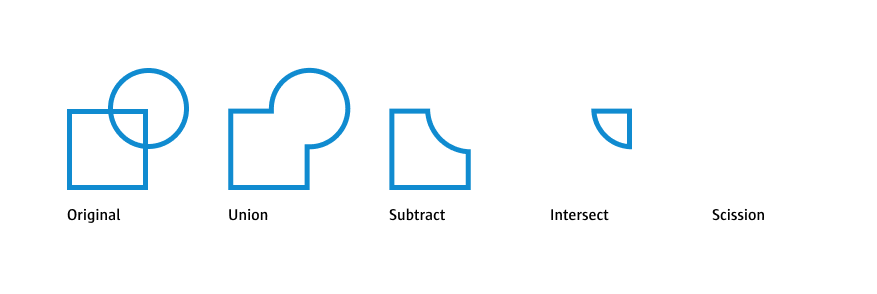
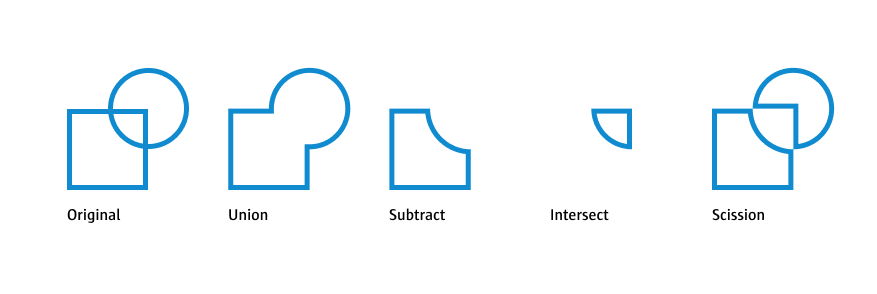
scission fix

Changed region(s): [[0.8005, 0.2143, 0.9544, 0.6735]]

diff --git a/code/jscad-intro/index.js b/code/jscad-intro/index.js
@@ -13,16 +13,18 @@ const getParameterDefinitions = () => {
 };
 
 const main = (parameters) => {
-  const shapes = [
-    cube({size: 4}),
-    sphere({radius: 2, center: [2, 2, 2]})
-  ];
-  const scissionShapes = scission(shapes);
-  const transformedShapes = [
-    translate([0,0,0], scissionShapes[0]),
-    translate([0,0,5], scissionShapes[1])
-  ];
-  return transformedShapes;
+  const cubeShape = cube({size: 4});
+  const sphereShape = sphere({radius: 2, center: [2, 2, 2]});
+
+  const cut1 = subtract([cubeShape, sphereShape]);
+  const cut2 = subtract([sphereShape, cubeShape]);
+  const unionShape = union([
+    translate([0,0,0], cut1),
+    translate([0,0,5], cut2)
+  ]);
+
+  const scissionShapes = scission(unionShape);
+  return scissionShapes[0];
 };
 
 module.exports = { main, getParameterDefinitions }

diff --git a/lectures/06-3D-intro/index.md b/lectures/06-3D-intro/index.md
@@ -452,7 +452,7 @@ return subtractShape;
 
 <img src="./assets/intersect.png" alt="" style="max-width:100%; display:block; margin: 0 auto;" />
 
-Cut out shapes from the first shape in the list:
+The overlapping areas of the object in the array:
 
 ```js
 const shapes = [
@@ -462,3 +462,23 @@ const shapes = [
 const intersectShape = intersect(shapes);
 return intersectShape;
 ```
+
+### Scission
+
+Scission can cut elements apart that are not connected anymore. This requires that there is at least a little gap inbetween two elements. If one for example would use `subtract` on two shapes in both directions and afterwards `union`. The cut would be so perfect, that the edges would still touch. Here is an example where the shapes are translated before `union` is applied, thereby, creating a big gap:
+
+```js
+const cubeShape = cube({size: 4});
+const sphereShape = sphere({radius: 2, center: [2, 2, 2]});
+
+const cut1 = subtract([cubeShape, sphereShape]);
+const cut2 = subtract([sphereShape, cubeShape]);
+const unionShape = union([
+  translate([0,0,0], cut1),
+  translate([0,0,5], cut2)
+]);
+
+const scissionShapes = scission(unionShape);
+```
+
+The above `scission` returns an array with two elements, which are the object that went into the `union` command.
